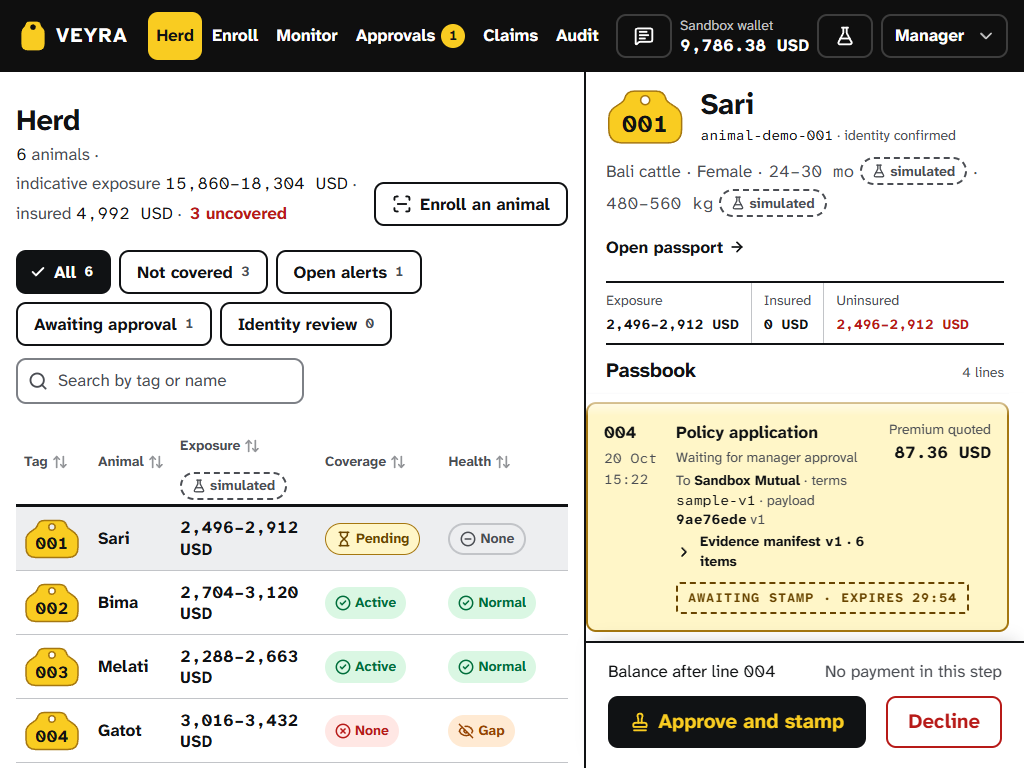
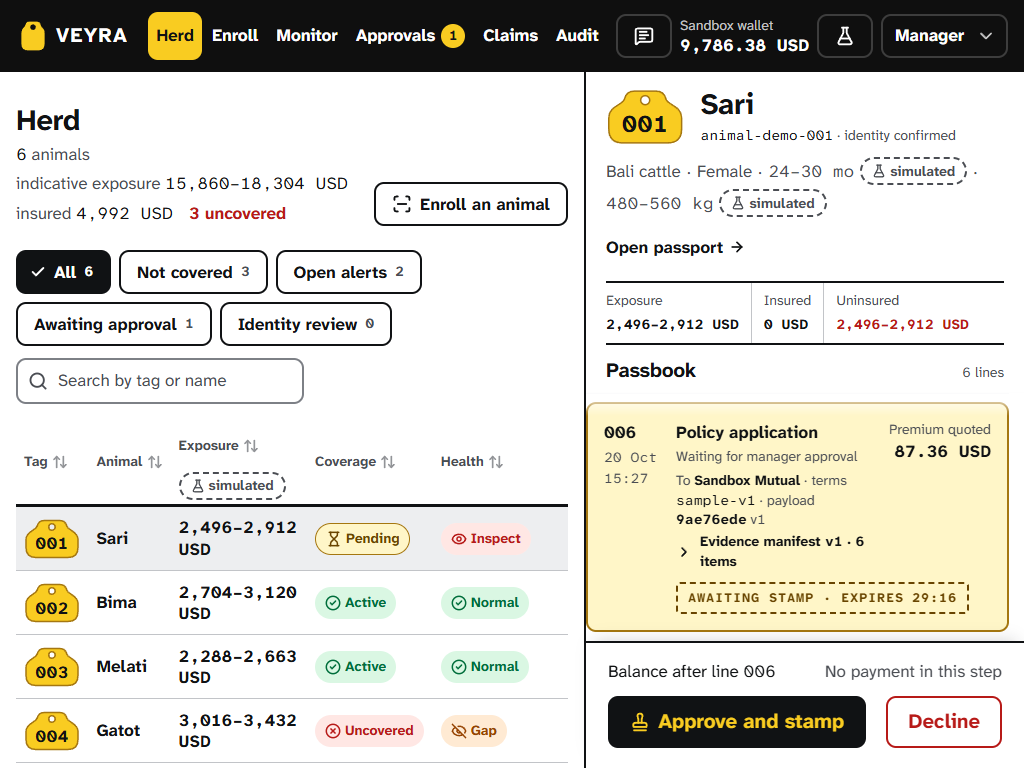
fix(web): distinct short pill labels and an unbreakable herd meta line
Coverage reads 'Uncovered' and health reads 'Off camera' at tablet width so
the two never share a word; herd meta facts are separate one-line segments
spaced apart, so no separator is stranded and nothing runs under the action.

diff --git a/apps/web/src/features/herd/HerdPage.tsx b/apps/web/src/features/herd/HerdPage.tsx
@@ -233,19 +233,20 @@ function HerdMeta() {
   if (!summary) return <span>Every tagged animal, its exposure, and its cover.</span>;
   const { currency } = summary;
   return (
-    // Each segment keeps to one line and carries its own trailing separator, so a wrap never strands a "·".
-    <span className="flex flex-wrap gap-x-2 gap-y-1">
+    // Each fact keeps to one line and spacing separates them, so a wrap can never strand a separator
+    // or push a long run of figures under the header's action.
+    <span className="flex flex-wrap gap-x-4 gap-y-1">
       <span className="whitespace-nowrap">
         <Mono className="text-ink">{summary.animal_count}</Mono> {summary.animal_count === 1 ? "animal" : "animals"}
-        <span aria-hidden="true"> ·</span>
+        <span className="sr-only">,</span>
       </span>
       <span className="whitespace-nowrap">
         indicative exposure <Mono className="text-ink">{formatMoneyRange(summary.exposure_low_minor, summary.exposure_high_minor, currency)}</Mono>
-        <span aria-hidden="true"> ·</span>
+        <span className="sr-only">,</span>
       </span>
       <span className="whitespace-nowrap">
         insured <Mono className="text-ink">{formatMoney(summary.insured_minor, currency, { whole: true })}</Mono>
-        <span aria-hidden="true"> ·</span>
+        <span className="sr-only">,</span>
       </span>
       <span className={cn("whitespace-nowrap", summary.uncovered_count > 0 && "font-bold text-danger")}>
         <Mono>{summary.uncovered_count}</Mono> uncovered

diff --git a/apps/web/src/lib/animal.ts b/apps/web/src/lib/animal.ts
@@ -28,7 +28,7 @@ export function identityPill(identityStatus: string | null | undefined): { tone:
 export function coveragePill(status: string | null | undefined): { tone: StatusTone; label: string; shortLabel?: string } {
   if (status === "active") return { tone: "ok", label: "Active" };
   if (status === "pending") return { tone: "awaiting", label: "Pending" };
-  return { tone: "danger", label: "Not covered", shortLabel: "None" };
+  return { tone: "danger", label: "Not covered", shortLabel: "Uncovered" };
 }
 
 export type HealthStatus =
@@ -47,7 +47,7 @@ const HEALTH_PILL: Record<HealthStatus, HealthPill> = {
   observation_gap: { tone: "uncertain", label: "Observation gap", shortLabel: "Gap", icon: EyeOff },
   veterinary_reviewed: { tone: "ok", label: "Vet reviewed", shortLabel: "Vetted", icon: Stethoscope },
   normal: { tone: "ok", label: "Normal" },
-  not_monitored: { tone: "neutral", label: "Not monitored", shortLabel: "None" },
+  not_monitored: { tone: "neutral", label: "Not monitored", shortLabel: "Off camera" },
 };
 
 /** A monitoring state from records, never a diagnosis: icon plus plain words. */
